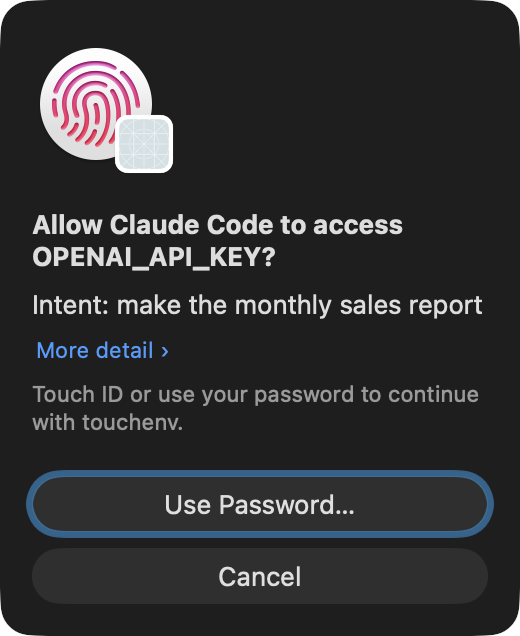
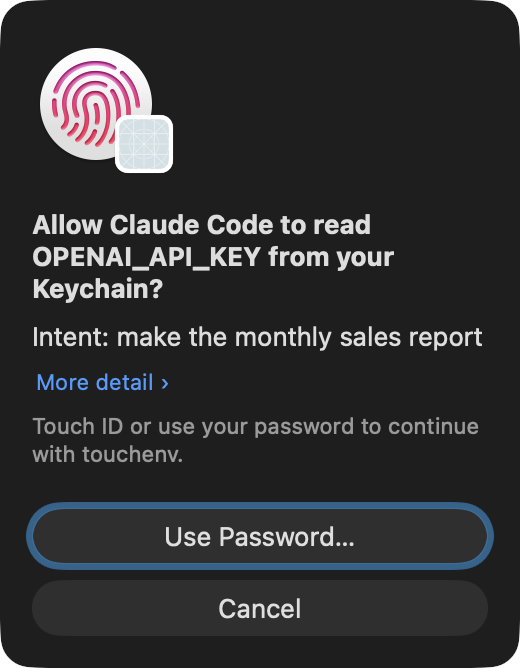
1.2.0: touchenv set --sync, and the prompt says where the key lives
"touchenv set --sync NAME" stores the key in iCloud Keychain so it reaches your other Macs.
iCloud Keychain refuses a userPresence access control (errSecParam), so synced keys rely on
touchenv's own prompt before every read; local keys keep the system-enforced Touch ID.
The prompt reads "Allow Claude Code to read NAME from your Keychain?" or "...from iCloud
Keychain?", and touchenv ls marks synced keys with "(iCloud)".

Changed region(s): [[0.0308, 0.0597, 0.9538, 0.8664], [0.4, 0.8962, 0.5846, 0.9261], [0.9846, 0.956, 1.0, 0.9858]]

diff --git a/touchenv.swift b/touchenv.swift
@@ -2,17 +2,20 @@
 //
 //   touchenv [cmd] --intent TEXT ...   one line on why, shown in the prompt (set, get, rm, run)
 //   touchenv set NAME          secret from stdin (typed with no echo, or piped: touchenv set NAME < file)
+//   touchenv set --sync NAME   the same, synced to your other Macs through iCloud Keychain
 //   touchenv get NAME          print the secret
 //   touchenv run NAME[:file] [NAME2[:file] ...] -- command args...
 //                              run the command with each secret in env var NAME (one Touch ID for all);
 //                              ":file" puts it in a private temp file instead and NAME holds the path,
 //                              the file is removed when the command ends
-//   touchenv ls                list names (no Touch ID, no values)
+//   touchenv ls                list names, "(iCloud)" after synced ones (no Touch ID, no values)
 //   touchenv rm NAME           delete
 //
 // Items are generic passwords (service "touchenv") in the Data Protection keychain, in the keychain access group
 // the signed touchenv.app holds (its only keychain-access-groups entitlement), with a userPresence access control:
 // macOS itself asks for Touch ID (or the Mac password) on every read, this device only, never synced.
+// Synced items (set --sync) can't carry that access control, so iCloud Keychain will take them: only the signed app
+// can read them, and touchenv asks for Touch ID itself before every read.
 // The Touch ID prompt is touchenv's own window with the sensor embedded (LAAuthenticationView): who asks (the nearest
 // parent process that is not a shell), which secrets, the stated intent, and the command behind "More detail".
 // Without Touch ID, or on "Use Password…", the macOS dialog asks instead.
@@ -25,16 +28,17 @@ import LocalAuthentication
 import LocalAuthenticationEmbeddedUI
 import Security
 
-let version = "1.1.0"
+let version = "1.2.0"
 let service = "touchenv"
 let usage = """
 touchenv \(version) — secrets in the macOS Keychain, every read behind Touch ID
 
   touchenv set NAME                     store a secret (typed with no echo, or piped: touchenv set NAME < file)
+  touchenv set --sync NAME              the same, synced to your other Macs through iCloud Keychain
   touchenv get NAME                     print it
   touchenv run NAME[:file] ... -- CMD   run CMD with each secret in env var NAME; with :file, NAME holds
                                         the path of a private temp file, removed when CMD ends
-  touchenv ls                           list names
+  touchenv ls                           list names; "(iCloud)" marks synced ones
   touchenv rm NAME                      delete
 
   --intent TEXT after the command (touchenv run --intent "why" NAME -- CMD) puts one line on why in the prompt.
@@ -267,7 +271,45 @@ func authenticate(_ title: String, intent: String?, detail: String? = nil, reaso
 
 func query(_ name: String) -> [String: Any] {
     [kSecClass as String: kSecClassGenericPassword, kSecAttrService as String: service, kSecAttrAccount as String: name,
+     kSecAttrSynchronizable as String: kSecAttrSynchronizableAny,
      kSecUseDataProtectionKeychain as String: true, kSecUseAuthenticationContext as String: context]
+}
+
+/// Whether the secret syncs through iCloud Keychain; nil when there is none. Reads attributes only, no Touch ID.
+func synced(_ name: String) -> Bool? {
+    var q = query(name)
+    q[kSecReturnAttributes as String] = true
+    context.interactionNotAllowed = true
+    defer { context.interactionNotAllowed = false }
+    var out: CFTypeRef?
+    let status = SecItemCopyMatching(q as CFDictionary, &out)
+    if status == errSecItemNotFound { return nil }
+    return ((out as? [String: Any])?[kSecAttrSynchronizable as String] as? Bool) ?? false
+}
+
+/// Where the secrets live, for the prompt.
+func place(_ names: [String]) -> String {
+    let sync = Set(names.map { synced($0) ?? false })
+    return sync == [true] ? "iCloud Keychain" : sync == [false] ? "your Keychain" : "your Keychain and iCloud Keychain"
+}
+
+func add(_ name: String, _ data: Data, sync: Bool) {
+    var q = query(name)
+    q[kSecValueData as String] = data
+    q[kSecAttrLabel as String] = "touchenv: \(name)"
+    q.removeValue(forKey: kSecUseAuthenticationContext as String)
+    if sync {
+        // iCloud Keychain won't take an access control: touchenv's own prompt guards every read instead.
+        q[kSecAttrSynchronizable as String] = true
+        q[kSecAttrAccessible as String] = kSecAttrAccessibleWhenUnlocked
+    } else {
+        q.removeValue(forKey: kSecAttrSynchronizable as String)
+        // The system asks for Touch ID (or the Mac password) on every read, whoever reads.
+        q[kSecAttrAccessControl as String] = SecAccessControlCreateWithFlags(
+            nil, kSecAttrAccessibleWhenUnlockedThisDeviceOnly, .userPresence, nil)!
+    }
+    let status = SecItemAdd(q as CFDictionary, nil)
+    if status != errSecSuccess { die("touchenv: keychain error \(status)") }
 }
 
 func read(_ name: String) -> Data {
@@ -299,64 +341,72 @@ var args = Array(CommandLine.arguments.dropFirst())
 guard let command = args.first else { die(usage, 2) }
 args.removeFirst()
 var intent: String?
-if args.first == "--intent" {
-    guard args.count > 1 else { die("usage: touchenv \(command) --intent TEXT ...", 2) }
-    let text = args[1].trimmingCharacters(in: .whitespacesAndNewlines).replacingOccurrences(of: "\n", with: " ")
-    intent = text.isEmpty ? nil : (text.count > 200 ? String(text.prefix(199)) + "…" : text)
-    args.removeFirst(2)
+var sync = false
+while let option = args.first, option.hasPrefix("--"), option != "--" {
+    if option == "--sync", command == "set" {
+        sync = true
+        args.removeFirst()
+    } else if option == "--intent", args.count > 1 {
+        let text = args[1].trimmingCharacters(in: .whitespacesAndNewlines).replacingOccurrences(of: "\n", with: " ")
+        intent = text.isEmpty ? nil : (text.count > 200 ? String(text.prefix(199)) + "…" : text)
+        args.removeFirst(2)
+    } else {
+        die("touchenv: unknown option \(option)", 2)
+    }
 }
 
 switch command {
 case "set":
-    guard args.count == 1, validName(args[0]) else { die("usage: touchenv set NAME  (NAME = env var style)", 2) }
+    guard args.count == 1, validName(args[0]) else { die("usage: touchenv set [--sync] NAME  (NAME = env var style)", 2) }
     let name = args[0]
     let data = readStdin()
     if data.isEmpty { die("touchenv: empty secret, nothing stored") }
-    var probe = query(name)
-    probe[kSecReturnAttributes as String] = true
-    context.interactionNotAllowed = true
-    let exists = SecItemCopyMatching(probe as CFDictionary, nil) != errSecItemNotFound
-    context.interactionNotAllowed = false
-    if exists {
+    if let wasSynced = synced(name) {
         let who = requester()
-        authenticate("Allow \(who) to replace \(name)?", intent: intent, reason: "let \(who) replace the secret \(name)")
-        let status = SecItemUpdate(query(name) as CFDictionary, [kSecValueData as String: data] as CFDictionary)
-        if status != errSecSuccess { die("touchenv: keychain error \(status)") }
+        let target = sync ? "iCloud Keychain" : "your Keychain"
+        authenticate("Allow \(who) to replace \(name) in \(target)?", intent: intent,
+                     reason: "let \(who) replace the secret \(name) in \(target)")
+        if wasSynced == sync {
+            let status = SecItemUpdate(query(name) as CFDictionary, [kSecValueData as String: data] as CFDictionary)
+            if status != errSecSuccess { die("touchenv: keychain error \(status)") }
+        } else {
+            // Syncing on or off changes the item's protection, which an update can't: store it anew.
+            let status = SecItemDelete(query(name) as CFDictionary)
+            if status != errSecSuccess { die("touchenv: keychain error \(status)") }
+            add(name, data, sync: sync)
+        }
     } else {
-        var q = query(name)
-        q[kSecValueData as String] = data
-        q[kSecAttrLabel as String] = "touchenv: \(name)"
-        q.removeValue(forKey: kSecUseAuthenticationContext as String)
-        // The system asks for Touch ID (or the Mac password) on every read, whoever reads.
-        q[kSecAttrAccessControl as String] = SecAccessControlCreateWithFlags(
-            nil, kSecAttrAccessibleWhenUnlockedThisDeviceOnly, .userPresence, nil)!
-        let status = SecItemAdd(q as CFDictionary, nil)
-        if status != errSecSuccess { die("touchenv: keychain error \(status)") }
+        add(name, data, sync: sync)
     }
-    print("stored \(name) (\(data.count) bytes)")
+    print("stored \(name) (\(data.count) bytes)\(sync ? ", synced through iCloud Keychain" : "")")
 
 case "get":
     guard args.count == 1 else { die("usage: touchenv get NAME", 2) }
     let who = requester()
-    authenticate("Show \(who) the secret \(args[0]) in full?", intent: intent,
+    authenticate("Show \(who) \(args[0]) from \(place([args[0]])) in full?", intent: intent,
                  reason: "show \(who) the secret \(args[0]) in full")
     FileHandle.standardOutput.write(read(args[0]))
 
 case "rm":
     guard args.count == 1 else { die("usage: touchenv rm NAME", 2) }
     let who = requester()
-    authenticate("Allow \(who) to delete \(args[0])?", intent: intent, reason: "let \(who) delete the secret \(args[0])")
+    authenticate("Allow \(who) to delete \(args[0]) from \(place([args[0]]))?", intent: intent,
+                 reason: "let \(who) delete the secret \(args[0])")
     let status = SecItemDelete(query(args[0]) as CFDictionary)
     if status != errSecSuccess { die("touchenv: keychain error \(status)") }
     print("deleted \(args[0])")
 
 case "ls":
     let q: [String: Any] = [kSecClass as String: kSecClassGenericPassword, kSecAttrService as String: service,
+                            kSecAttrSynchronizable as String: kSecAttrSynchronizableAny,
                             kSecUseDataProtectionKeychain as String: true,
                             kSecReturnAttributes as String: true, kSecMatchLimit as String: kSecMatchLimitAll]
     var out: CFTypeRef?
     if SecItemCopyMatching(q as CFDictionary, &out) == errSecSuccess, let items = out as? [[String: Any]] {
-        items.compactMap { $0[kSecAttrAccount as String] as? String }.sorted().forEach { print($0) }
+        items.compactMap { item -> String? in
+            guard let name = item[kSecAttrAccount as String] as? String else { return nil }
+            return (item[kSecAttrSynchronizable as String] as? Bool ?? false) ? "\(name) (iCloud)" : name
+        }.sorted().forEach { print($0) }
     }
 
 case "run":
@@ -372,7 +422,7 @@ case "run":
     let names = specs.map(\.name).joined(separator: ", ")
     let who = requester()
     let full = argv.map { $0.contains(" ") ? "'\($0)'" : $0 }.joined(separator: " ")
-    authenticate("Allow \(who) to access \(names)?", intent: intent,
+    authenticate("Allow \(who) to read \(names) from \(place(specs.map(\.name)))?", intent: intent,
                  detail: full.count > 2000 ? String(full.prefix(1999)) + "…" : full,
                  reason: "give \(who) the secret\(specs.count > 1 ? "s" : "") \(names) for the command: \(shortCommand(argv))")
 

diff --git a/README.md b/README.md
@@ -2,7 +2,7 @@
 
 **Lock your passwords and API keys behind your fingerprint, so AI agents can't read them without your touch.**
 
-<p align="center"><img src="docs/touch-id-prompt.png" width="260" alt="Touch ID prompt: Allow Claude Code to access OPENAI_API_KEY? Intent: make the monthly sales report. More detail shows the command."></p>
+<p align="center"><img src="docs/touch-id-prompt.png" width="260" alt="Touch ID prompt: Allow Claude Code to read OPENAI_API_KEY from your Keychain? Intent: make the monthly sales report. More detail shows the command."></p>
 
 Each time something needs one of your secrets, your Mac shows this. Touch the sensor and that one command gets the
 key. Don't touch, and nobody gets it.
@@ -67,6 +67,14 @@ touchenv set OPENAI_API_KEY
 touchenv set MY_KEY < ~/Downloads/AuthKey.p8
 ```
 
+**Use a key on all your Macs.** Add `--sync` and the key travels to your other Macs through iCloud Keychain:
+
+```sh
+touchenv set --sync OPENAI_API_KEY
+```
+
+Each Mac needs touchenv installed. `touchenv ls` marks synced keys with `(iCloud)`.
+
 After saving, delete the original. Keep a backup somewhere offline, such as a USB stick.
 
 **Use a key.** Put `touchenv run NAME --` in front of the command:
@@ -106,7 +114,10 @@ If you use Claude Code, also add `"touchenv *"` to `sandbox.excludedCommands` in
   command looks strange, don't touch.
 - **The intent is what the asker says about itself.** Anyone can write anything there. Open **More detail** and
   check the command.
-- **Your keys never leave your Mac.** They are not synced to iCloud, and touch-env has no internet access.
+- **Your keys stay on your Mac** unless you add `--sync`. touch-env itself has no internet access.
+- **Synced keys are protected a little differently.** iCloud Keychain does not accept the "ask for Touch ID on every
+  read" lock that macOS puts on local keys. Only touchenv can read a synced key, and touchenv always asks for your
+  finger first, but the lock is touchenv's, not the Mac's. Apple encrypts synced keys end to end.
 - **No Touch ID?** Your Mac asks for your login password instead.
 - **Other apps can't see the keys at all.** Not even Apple's own `security` tool can read them. There is also no
   "Always Allow" button you could click by mistake.
@@ -119,7 +130,8 @@ touch-env is one Swift file, [`touchenv.swift`](touchenv.swift).
 
 **How it works:**
 - Keys are stored in the Data Protection keychain with a `userPresence` access control and
-  `WhenUnlockedThisDeviceOnly`.
+  `WhenUnlockedThisDeviceOnly`. Keys saved with `--sync` are `kSecAttrSynchronizable` and `WhenUnlocked`, with no
+  access control (iCloud Keychain refuses one); touchenv's own prompt guards their reads.
 - They sit in a keychain access group that only the signed app holds. This is why it ships as a signed `.app` with a
   provisioning profile.
 - The prompt names the nearest parent process that isn't a shell.
